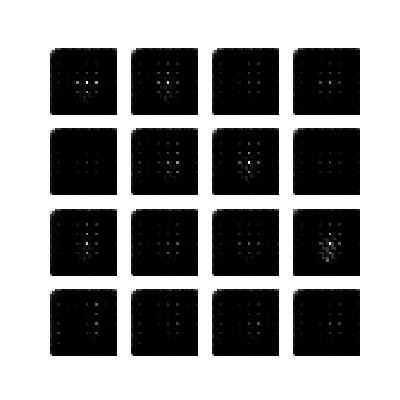
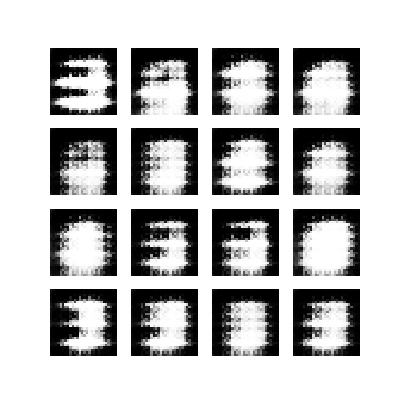
Cleaning image examples.

diff --git a/README.md b/README.md
@@ -58,23 +58,11 @@ The Discriminator is a simple CNN-based image classifier. It outputs positive va
 ### Training results
 Training has done on 1k epochs. Bellow are examples during this process.
 
-##### 1 - 5 epoch
-![](assets/images/image_at_epoch_0001.png)
-![](assets/images/image_at_epoch_0002.png)
-![](assets/images/image_at_epoch_0003.png)
-![](assets/images/image_at_epoch_0004.png)
-![](assets/images/image_at_epoch_0005.png)
+#### 1 epoch
+![After 1 epoch](assets/images/image_at_epoch_0001.png)
 
-##### 496 - 500 epoch
-![](assets/images/image_at_epoch_0496.png)
-![](assets/images/image_at_epoch_0497.png)
-![](assets/images/image_at_epoch_0498.png)
-![](assets/images/image_at_epoch_0499.png)
-![](assets/images/image_at_epoch_0500.png)
+#### 500 epoch
+![After 500 epoch](assets/images/image_at_epoch_0500.png)
 
-##### 996 - 1000 epoch
-![](assets/images/image_at_epoch_0996.png)
-![](assets/images/image_at_epoch_0997.png)
-![](assets/images/image_at_epoch_0998.png)
-![](assets/images/image_at_epoch_0999.png)
-![](assets/images/image_at_epoch_1000.png)
+#### 1000 epoch
+![After 1000 epoch](assets/images/image_at_epoch_1000.png)
